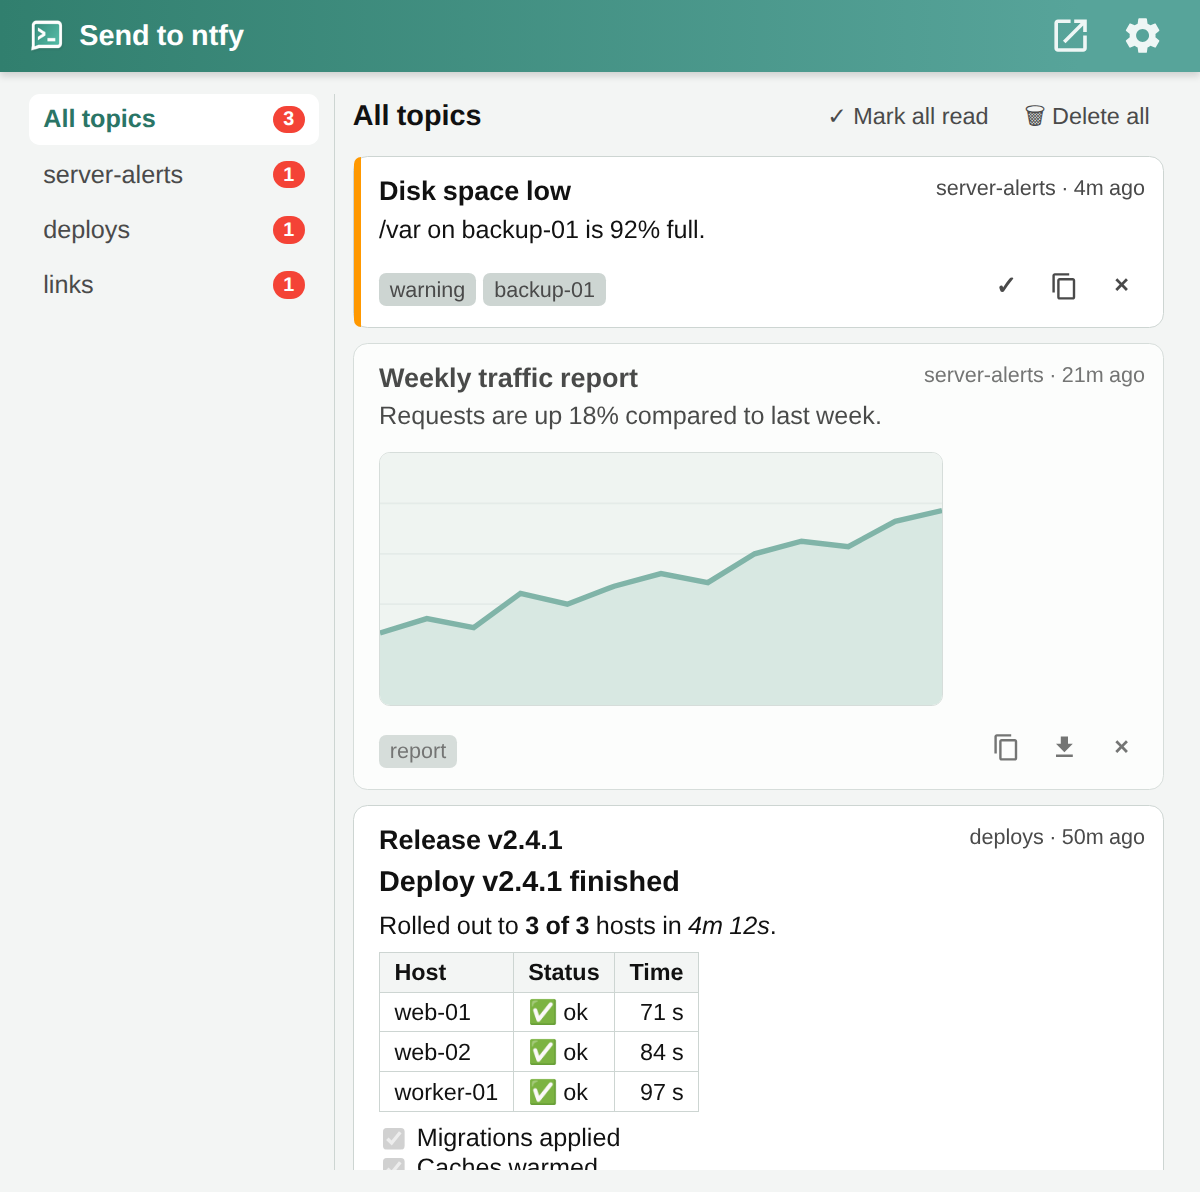
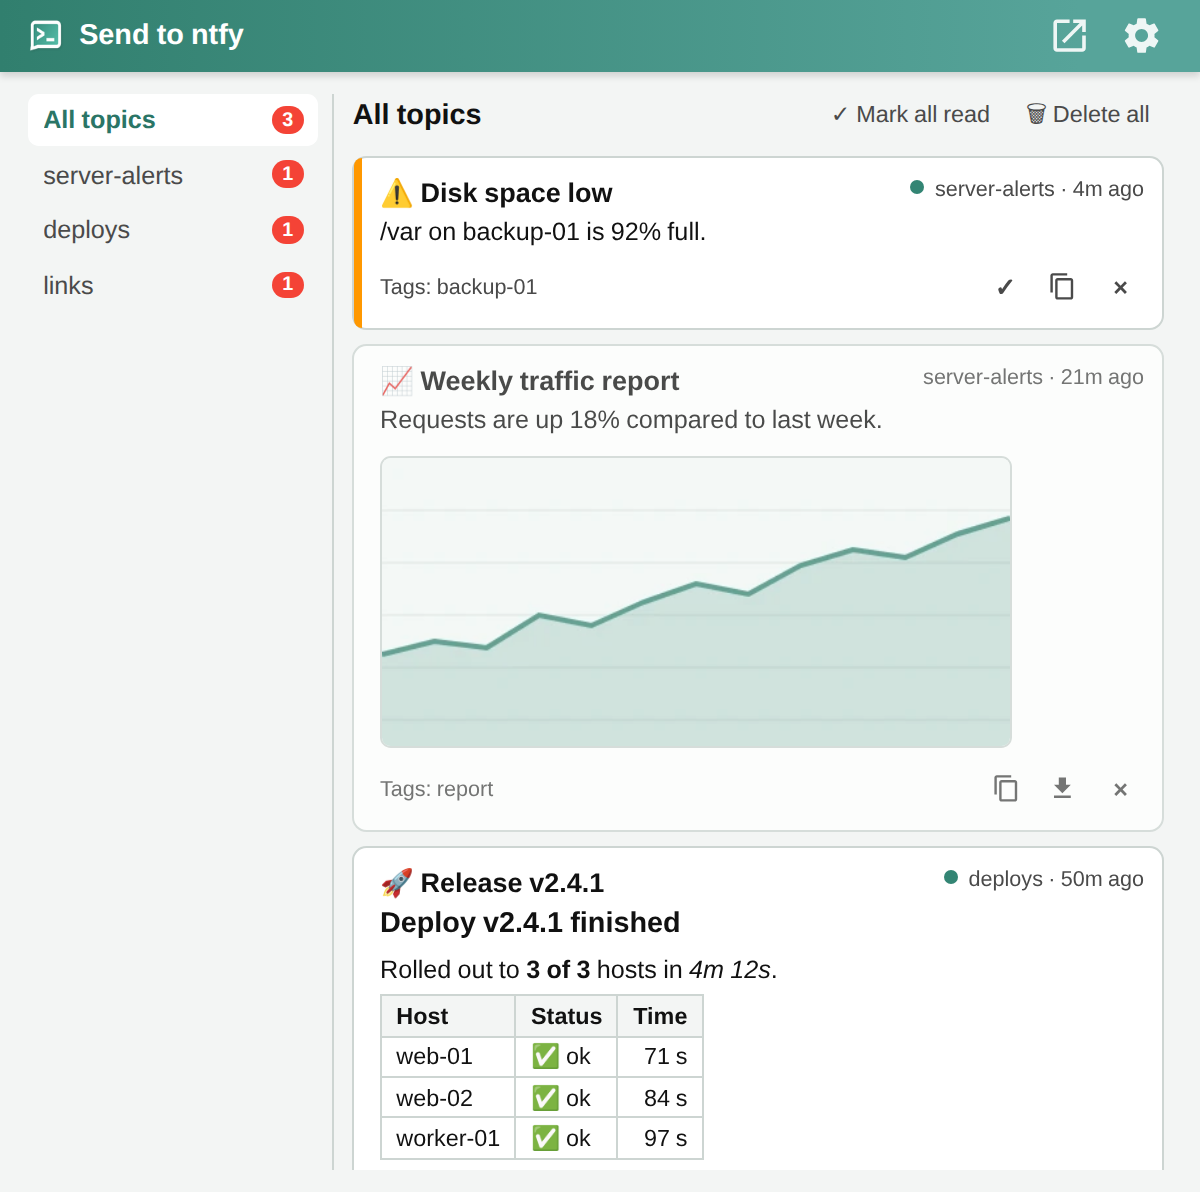
Update the README and screenshots for emoji tags, the unread dot, and the emoji picker

diff --git a/README.md b/README.md
@@ -13,7 +13,7 @@ A browser extension to send notifications to, and receive them from, [ntfy.sh](h
 - **File Upload**: Select multiple files and send them as separate notifications or one ZIP to your ntfy topics.
 - **Quick Sharing**: Send the current page URL or custom text to your ntfy topics, with priority, tags, and optional Markdown formatting.
 - **Receive Notifications**: Once switched on in the settings, messages from your topics arrive live (WebSocket) as desktop notifications, shown like in the popup: emoji tags in front of the title, the other tags below the message, Markdown as plain text, and a preview of an uploaded image (large in Chrome and Edge, as the icon in Firefox), with an unread count on the icon. Messages published while the browser was closed are fetched when it starts (more than three show as one summary notification). Clicking a notification marks its message as read and opens its click URL, if it has one, or the popup. Messages you send from the extension are marked as read and don't show a desktop notification.
-- **One View for Sending and Receiving**: A topic list with unread counts next to the messages of all topics or of the selected one, with mark-as-read and delete actions (stored locally). Tags that name an emoji (like `warning`) show as that emoji in front of the title or message, like in the ntfy web app. Links in messages are clickable, message text can be copied, image attachments uploaded to the server show a preview (links to files elsewhere aren't loaded by themselves), and attachments can be downloaded. With a topic selected, a message bar at the bottom sends to it, like in the ntfy web app; its arrow button opens the title, Markdown, priority, tag, and attachment options.
+- **One View for Sending and Receiving**: A topic list with unread counts next to the messages of all topics or of the selected one, with mark-as-read and delete actions (stored locally); a green dot marks unread messages, like in the ntfy web app. Tags that name an emoji (like `warning`) show as that emoji in front of the title or message, like in the ntfy web app. Links in messages are clickable, message text can be copied, image attachments uploaded to the server show a preview (links to files elsewhere aren't loaded by themselves), and attachments can be downloaded. With a topic selected, a message bar at the bottom sends to it, like in the ntfy web app; its arrow button opens the title, Markdown, priority, tag, and attachment options.
 - **Open in ntfy**: Open the selected topic in the ntfy web app.
 - **Keyboard Shortcuts**: `Enter` sends from the message bar (`Shift + Enter` for a new line). With the options open, `Enter` starts a new line and `Ctrl + Enter` sends. `Right Ctrl + Enter` sends from anywhere.
 - **Custom Configuration**: Support for self-hosted ntfy servers.
@@ -52,7 +52,7 @@ Open the settings with the gear icon. They are grouped into Server, Topics, Rece
 ### Sending
 
 - **Message bar**: Select a topic to send to it from the bar at the bottom. The arrow button next to it opens the title, **Format as Markdown**, priority, tags (with an emoji picker, like ntfy's), and attachments; the message field then moves below the title. The link button next to the message field inserts the current tab's URL. A message needs text or an attachment; a title alone isn't sent.
-- **Priority and Tags**: The last used priority and tags are remembered for the next message.
+- **Priority and Tags**: The last used priority is remembered for the next message. Tags carry over to the next message only while **Send another** is checked; otherwise they are cleared after sending. Type a tag, or an emoji name like `warning` to show that emoji in front of the title, and press `Enter`; the emoji button in the tags field picks one from a list.
 - **Attachments**: When multiple files are attached, the extension sends them as separate notifications by default. Enable **Send files as one ZIP** below the attachment list to send all of them in one ZIP attachment instead. The preference is remembered and can be switched at any time.
 - **Send another**: Keeps the extension open after sending, for the next message.
 
@@ -79,7 +79,7 @@ The build output (`send-to-ntfy-chrome.zip`, `send-to-ntfy-firefox.xpi`) is plac
     <th>Sending, with the options open</th>
   </tr>
   <tr>
-    <td valign="top"><img src="screenshots/receive.png" width="400" alt="All topics with the topic list, unread counts, and an image preview"></td>
+    <td valign="top"><img src="screenshots/receive.png" width="400" alt="All topics with the topic list, unread counts, emoji tags, and an image preview"></td>
     <td valign="top"><img src="screenshots/send.png" width="400" alt="Message bar of a topic with title, priority, tags, and two attached files"></td>
   </tr>
   <tr>
@@ -91,11 +91,11 @@ The build output (`send-to-ntfy-chrome.zip`, `send-to-ntfy-firefox.xpi`) is plac
     <td valign="top"><img src="screenshots/receive-dark.png" width="400" alt="All topics in dark mode"></td>
   </tr>
   <tr>
+    <th>Emoji picker</th>
     <th>Settings</th>
-    <th></th>
   </tr>
   <tr>
+    <td valign="top"><img src="screenshots/emoji-picker.png" width="400" alt="The emoji picker next to the tags field"></td>
     <td valign="top"><img src="screenshots/settings.png" width="400" alt="Settings"></td>
-    <td></td>
   </tr>
 </table>
